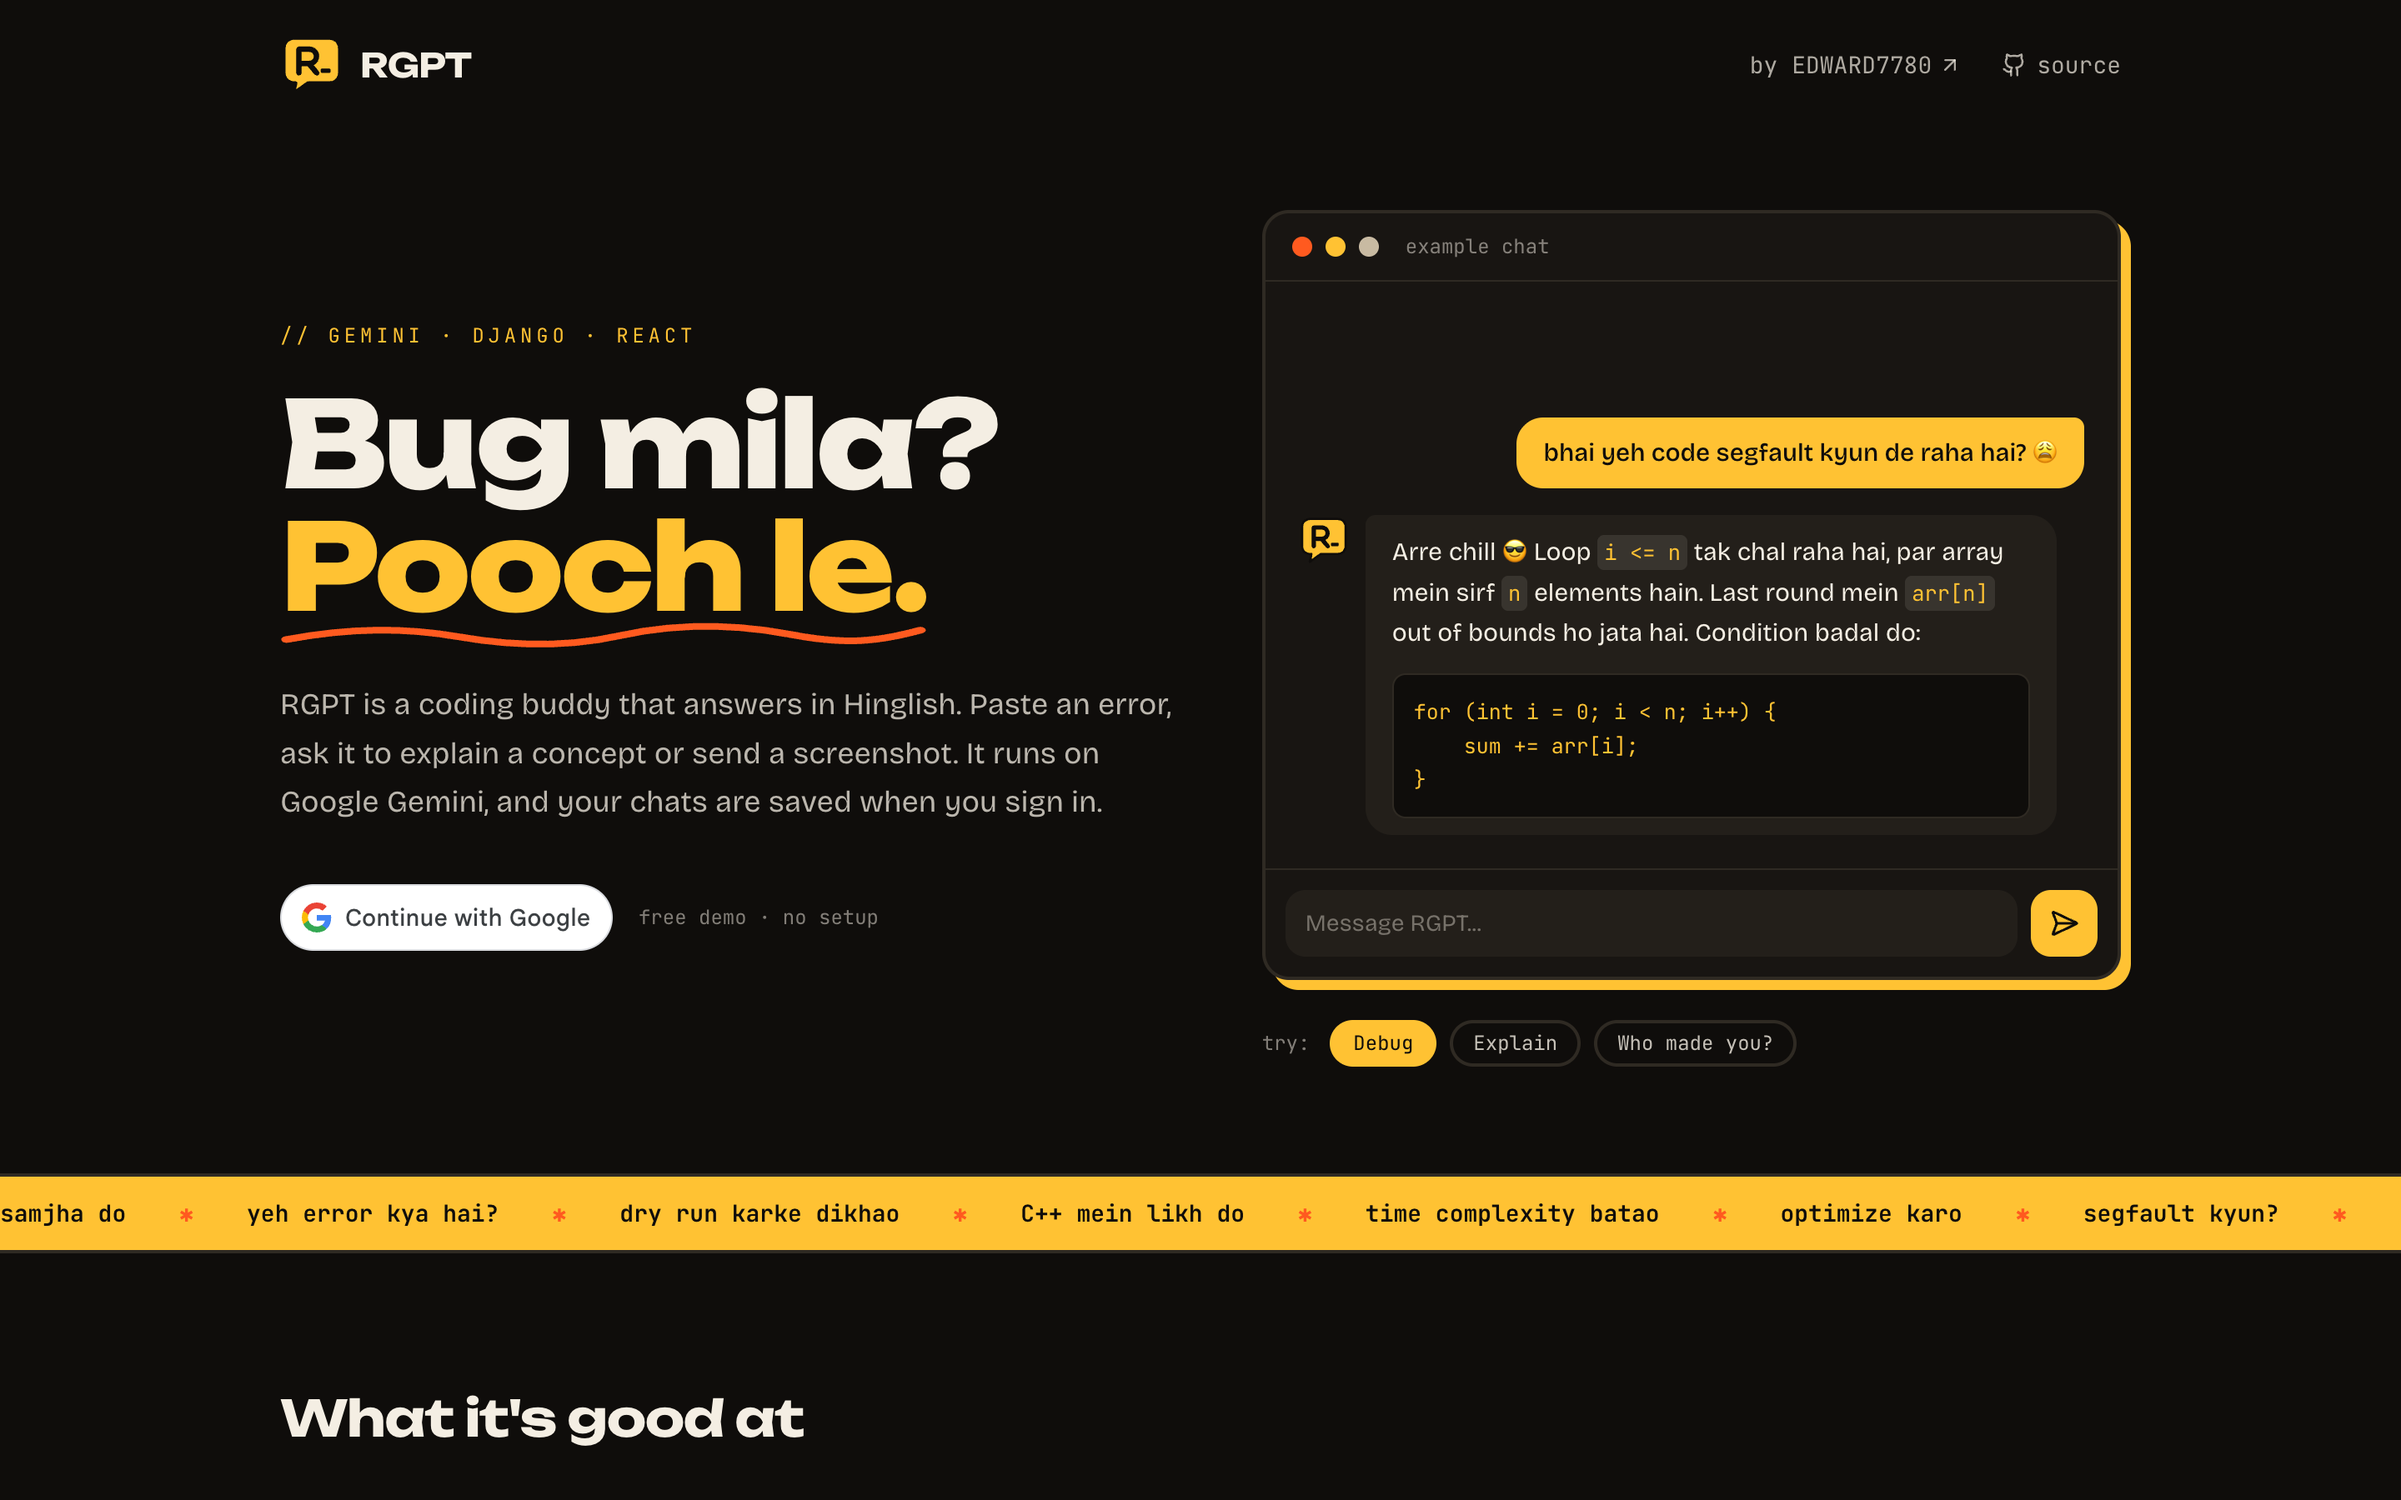
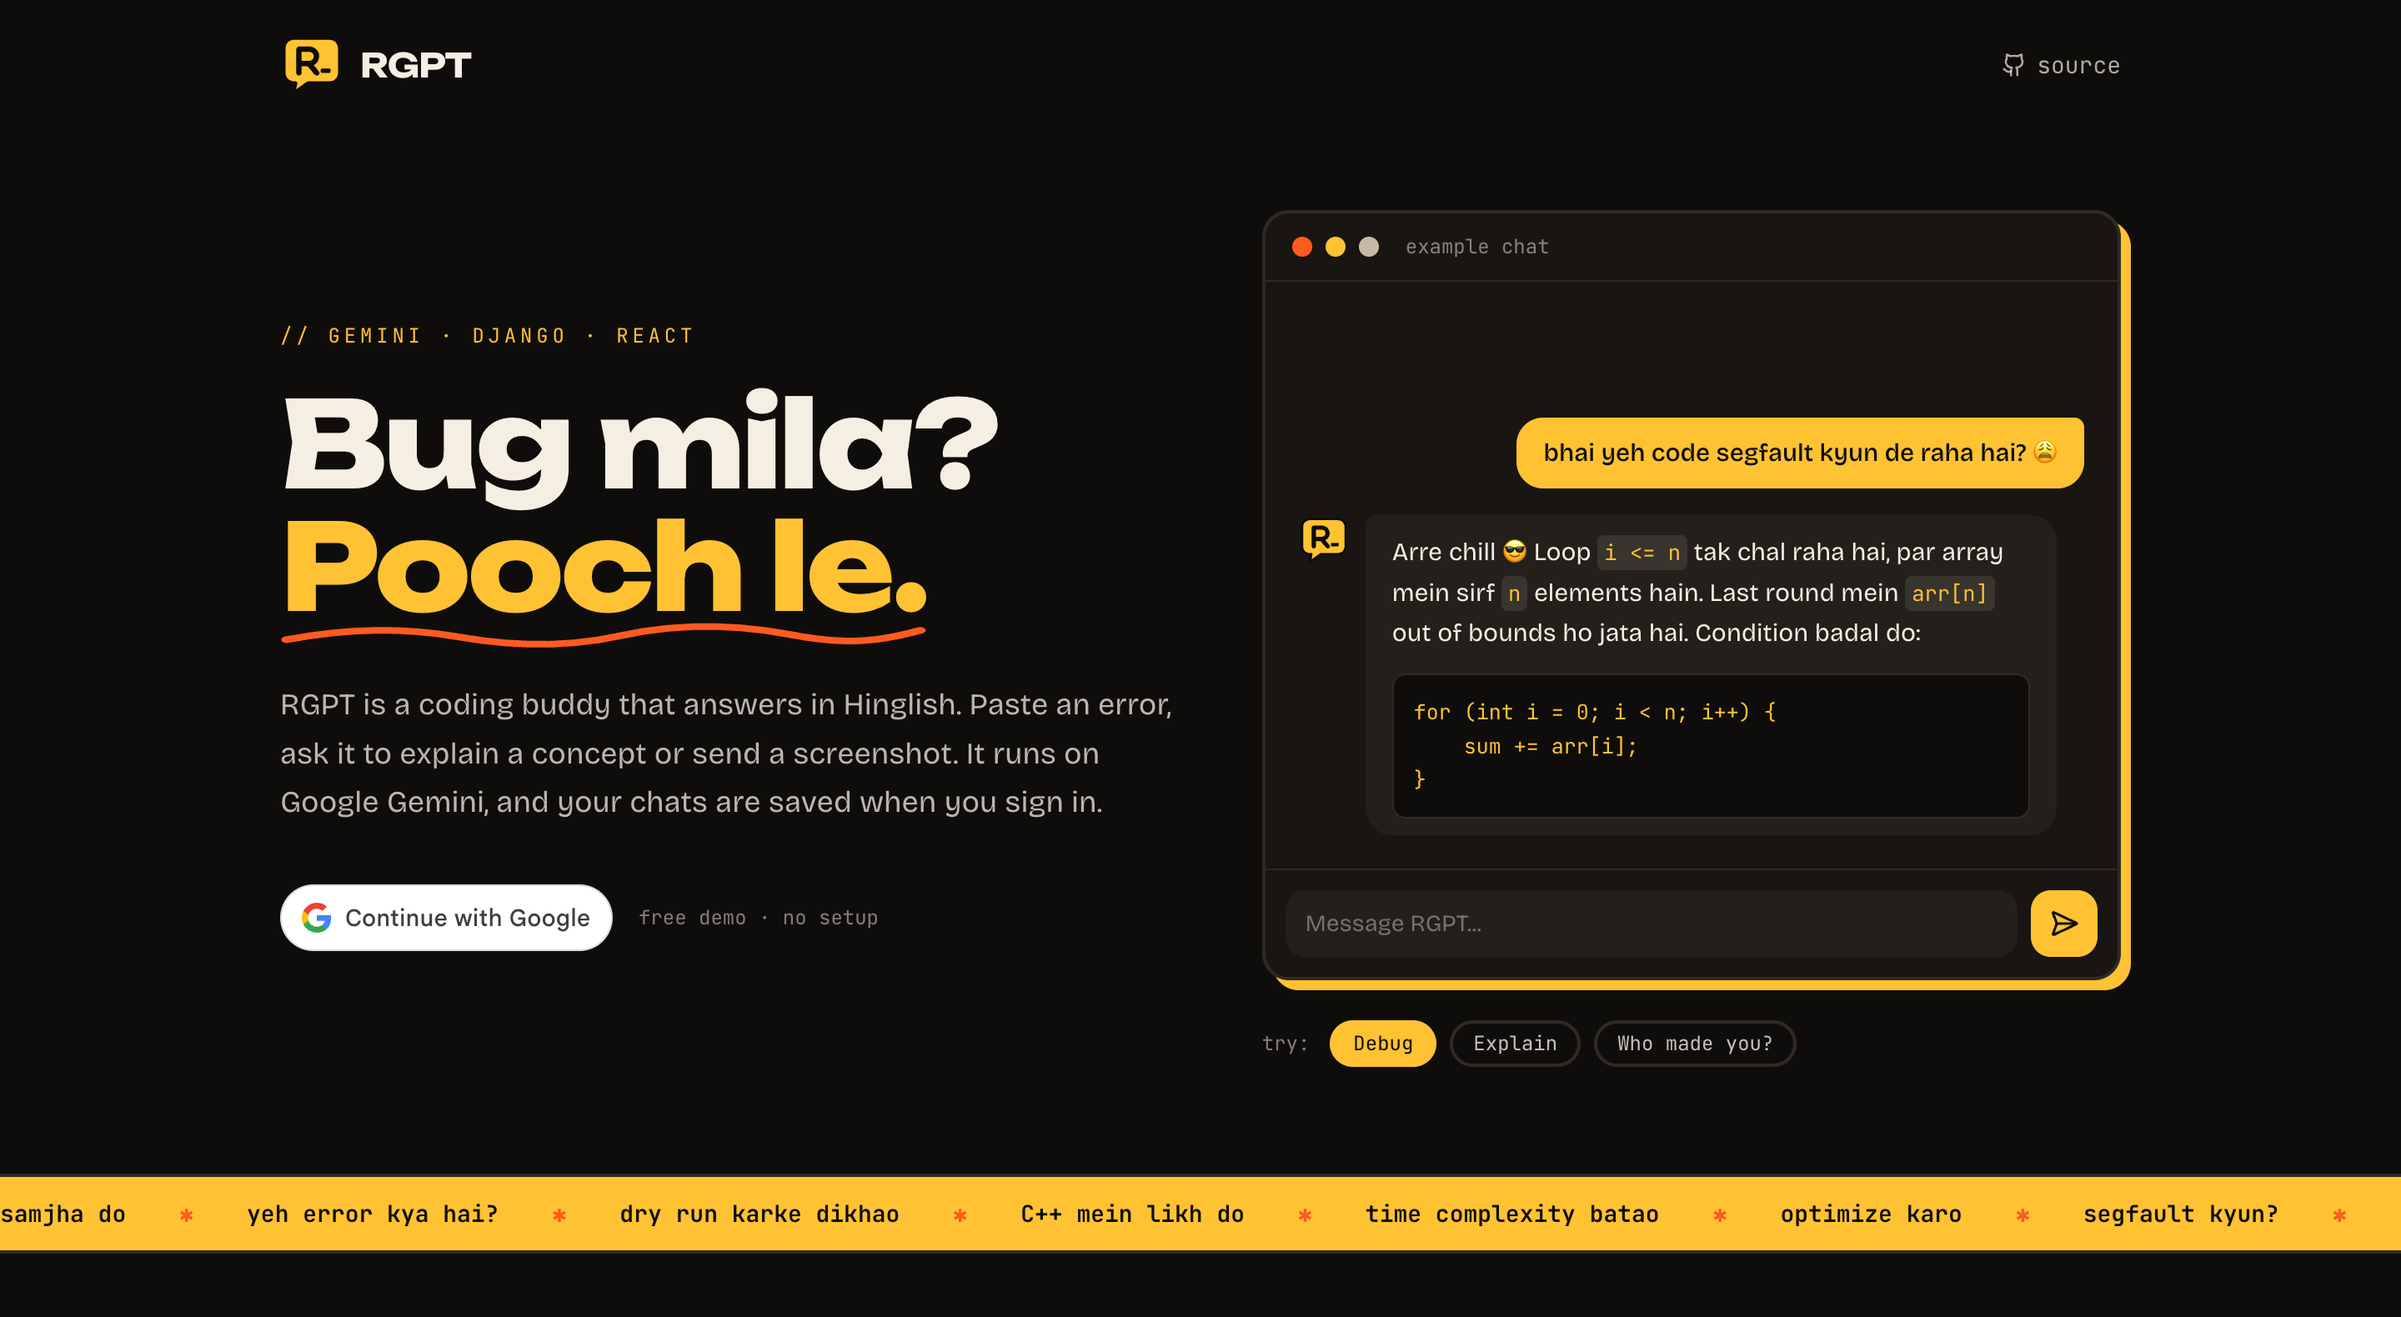
Remove the portfolio links from the landing page and README
The landing header and footer and the README linked to the portfolio
site. The footer keeps a plain "Built by" line and the GitHub link, and
the landing screenshots are retaken without the header link.

diff --git a/frontend/src/pages/LoginPage.jsx b/frontend/src/pages/LoginPage.jsx
@@ -1,13 +1,12 @@
 import { useState } from 'react';
 import { Navigate, useNavigate } from 'react-router-dom';
 import { GoogleLogin } from '@react-oauth/google';
-import { ArrowUpRight, CircleAlert, Github, LoaderCircle } from 'lucide-react';
+import { CircleAlert, Github, LoaderCircle } from 'lucide-react';
 import BrandMark, { Wordmark } from '../components/BrandMark';
 import DemoChat from '../components/DemoChat';
 import api, { errorMessage } from '../services/api';
 import { useAuth } from '../context/useAuth';
 
-const PORTFOLIO_URL = 'https://edward7780.vercel.app';
 const GITHUB_URL = 'https://github.com/EDWARD-012/RGPT-Chat-App';
 
 const phrases = [
@@ -73,11 +72,7 @@ export default function LoginPage() {
           <BrandMark size={38} className="transition-transform duration-300 group-hover:-rotate-6" />
           <Wordmark className="text-xl" />
         </a>
-        <nav className="flex items-center gap-4 font-mono text-xs sm:gap-6 sm:text-sm">
-          <a href={PORTFOLIO_URL} target="_blank" rel="noreferrer" className="inline-flex items-center gap-1 text-paper/70 hover:text-haldi">
-            by EDWARD7780
-            <ArrowUpRight size={14} aria-hidden="true" />
-          </a>
+        <nav className="flex items-center font-mono text-xs sm:text-sm">
           <a href={GITHUB_URL} target="_blank" rel="noreferrer" className="inline-flex items-center gap-1.5 text-paper/70 hover:text-haldi">
             <Github size={15} aria-hidden="true" />
             <span className="hidden sm:inline">source</span>
@@ -181,20 +176,10 @@ export default function LoginPage() {
 
       <footer className="border-t border-ink-4">
         <div className="mx-auto flex max-w-6xl flex-wrap items-center justify-between gap-3 px-6 py-6 font-mono text-xs text-paper/60">
-          <p>
-            Built by{' '}
-            <a href={PORTFOLIO_URL} target="_blank" rel="noreferrer" className="text-paper underline decoration-haldi underline-offset-4 hover:text-haldi">
-              Ravi Kumar Gupta (EDWARD7780)
-            </a>
-          </p>
-          <div className="flex items-center gap-5">
-            <a href={PORTFOLIO_URL} target="_blank" rel="noreferrer" className="hover:text-haldi">
-              Portfolio
-            </a>
-            <a href={GITHUB_URL} target="_blank" rel="noreferrer" className="hover:text-haldi">
-              GitHub
-            </a>
-          </div>
+          <p>Built by Ravi Kumar Gupta (EDWARD7780)</p>
+          <a href={GITHUB_URL} target="_blank" rel="noreferrer" className="hover:text-haldi">
+            GitHub
+          </a>
         </div>
       </footer>
     </div>

diff --git a/frontend/src/index.css b/frontend/src/index.css
@@ -5,7 +5,7 @@
 @custom-variant dark (&:where(.dark, .dark *));
 
 @theme {
-  /* Warm near-black and bone white, shared with the EDWARD7780 portfolio. */
+  /* Warm near-black and bone white. */
   --color-ink: #0f0d0b;
   --color-ink-2: #181512;
   --color-ink-3: #231f1a;
@@ -15,7 +15,7 @@
   --color-paper-3: #ddd2bf;
   --color-paper-4: #c8baa2;
   --color-muted: #8c8272;
-  /* RGPT's own accent: haldi (turmeric) yellow. Chili is the portfolio's signal colour. */
+  /* RGPT's accent is haldi (turmeric) yellow. Chili is for small signals like pins and errors. */
   --color-haldi: #ffc233;
   --color-haldi-deep: #e9a400;
   --color-chili: #ff5a1f;

diff --git a/readme.md b/readme.md
@@ -12,8 +12,6 @@
 <p align="center">
   <a href="https://rgpt-chat-app.vercel.app"><b>Live demo</b></a>
   &nbsp;·&nbsp;
-  <a href="https://edward7780.vercel.app">Portfolio</a>
-  &nbsp;·&nbsp;
   <a href="https://github.com/EDWARD-012">GitHub</a>
 </p>
 
@@ -164,4 +162,4 @@ Released under the MIT License.
 
 ---
 
-Built by Ravi Kumar Gupta ([EDWARD7780](https://edward7780.vercel.app)).
+Built by Ravi Kumar Gupta ([EDWARD7780](https://github.com/EDWARD-012)).
